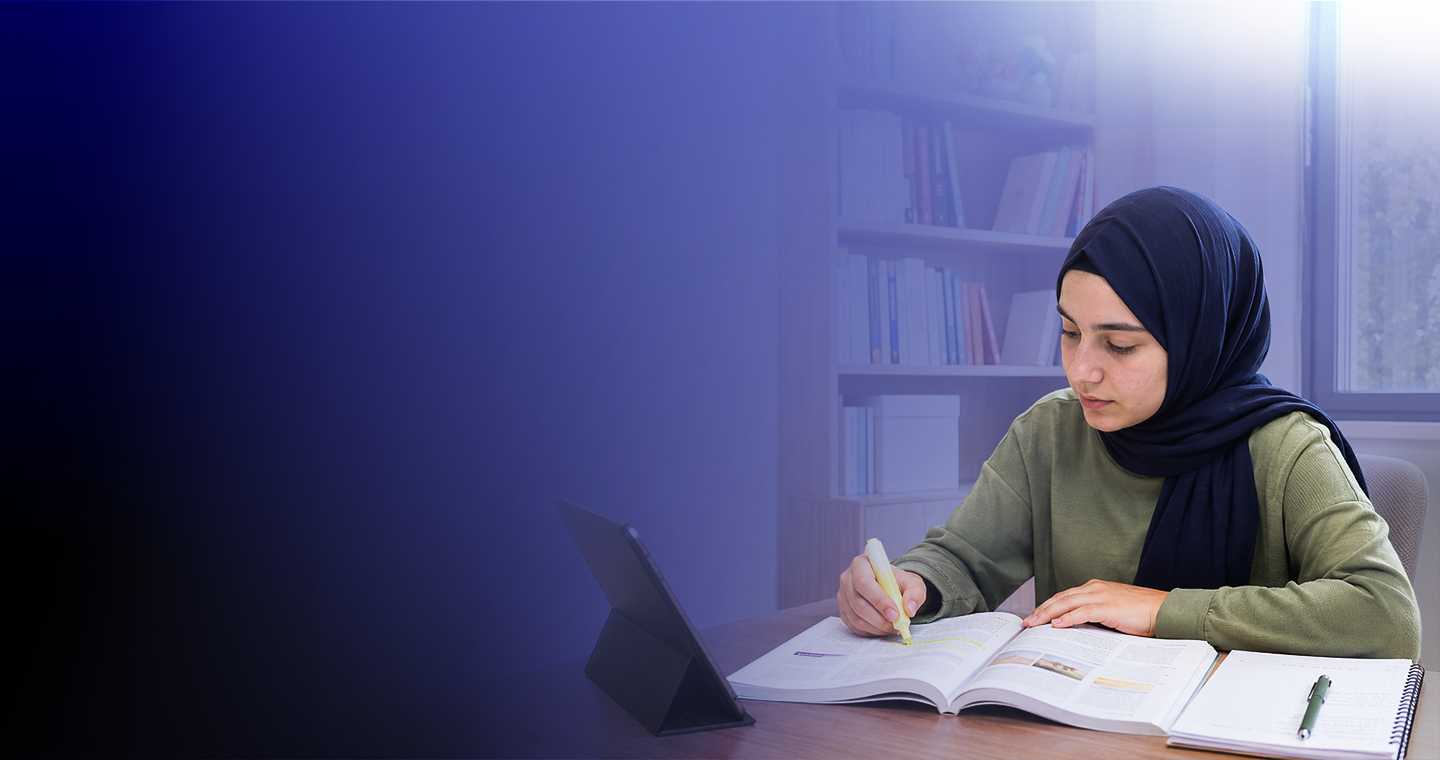
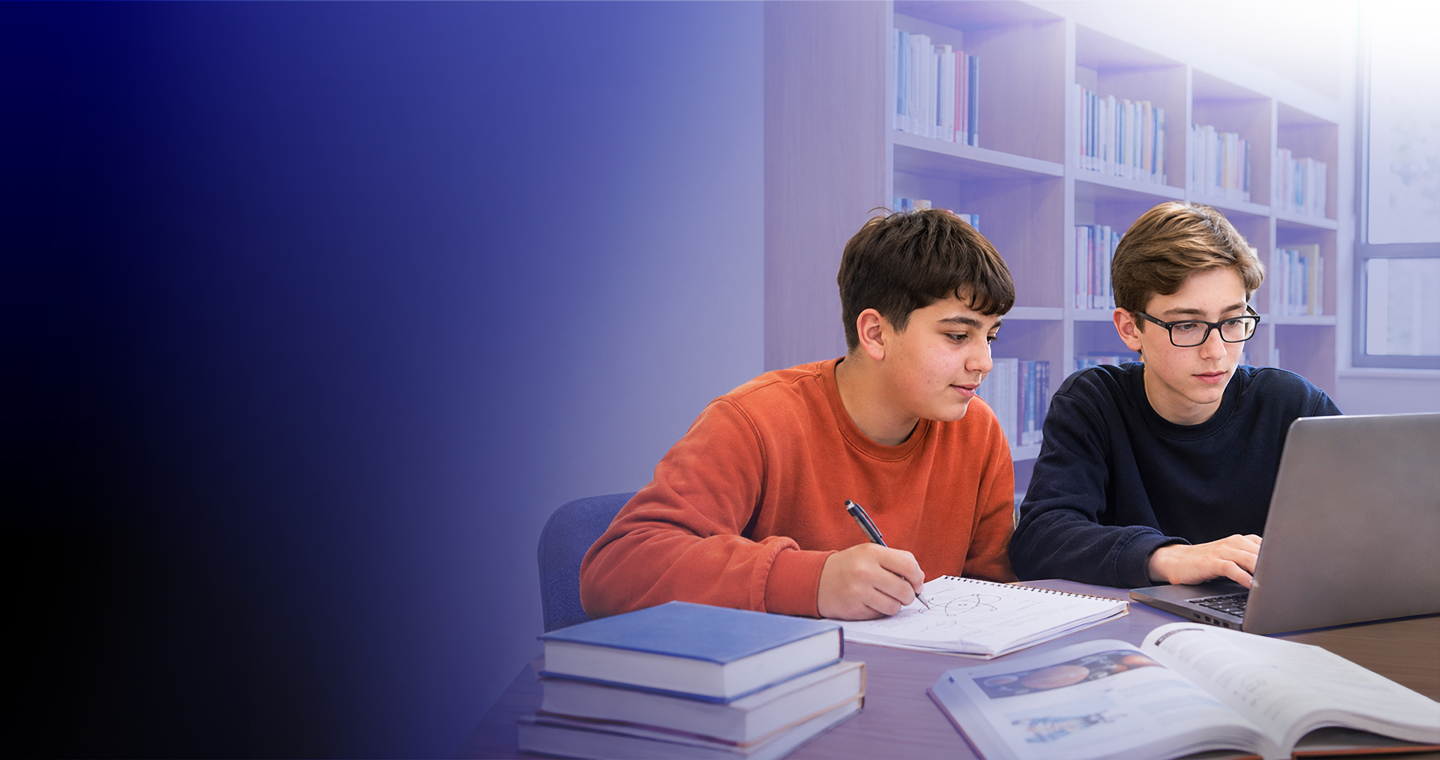
Refine hero slides with paired text and soft zoom transitions

diff --git a/landing-v2/scripts/landing/hero.js b/landing-v2/scripts/landing/hero.js
@@ -10,6 +10,13 @@ onReady(() => {
   const reducedMotion = window.matchMedia('(prefers-reduced-motion: reduce)');
   const sources = picture.querySelectorAll('source');
   const image = picture.querySelector('img');
+  const text = document.querySelector('.hero-text');
+  const textDescriptions = {
+    1: text?.alt || '',
+    2: 'YKS yolculuğunda her adımda yanında. MEBİ, ortaöğretim öğrencilerinin ve mezunlarının YKS’ye hazırlık sürecini ders anlatım videoları, çözümlü sorular ve bireysel çalışma planlarıyla destekleyen, ücretsiz bir bireysel öğrenme platformudur.',
+    3: 'Hayalindeki liseye ilk adım MEBİ ile. MEBİ, ortaokul öğrencilerinin okul derslerini desteklemek ve LGS’ye hazırlık süreçlerine katkı sağlamak amacıyla ders anlatım videoları, çözümlü sorular ve bireysel çalışma planları sunan ücretsiz bir öğrenme platformudur.'
+  };
+  const textPath = index => `landing-v2/images/hero-text-${index}.png`;
   const series = {
     desktop: { base: 'landing-v2/images/hero-final', index: 1, last: 1, urls: new Map([[1, 'landing-v2/images/hero-final-1.png']]), entries: [1] },
     mobile: { base: 'landing-v2/images/hero-section-mobile', index: 1, last: 1, urls: new Map(), entries: [1] }
@@ -17,10 +24,50 @@ onReady(() => {
   let paused = reducedMotion.matches;
   let timer;
   let version = 0;
-  let finishTransition = () => {};
+  let activeTransition;
+  let zoom;
+  let preparing = false;
+  const decoded = new Map();
+  const easeOut = getComputedStyle(picture).getPropertyValue('--ease-out').trim();
+  const holdDuration = 6000;
+  const fadeDuration = 1800;
   const stem = (state, index) => `${state.base}${index === 1 ? '' : `-${index}`}`;
   const path = (state, index) => state.urls.get(index) || `${stem(state, index)}.webp`;
   const current = () => mobile.matches ? series.mobile : series.desktop;
+  const running = () => !paused && !document.hidden;
+  const startZoom = () => {
+    zoom?.cancel();
+    zoom = undefined;
+    if (reducedMotion.matches || !picture.animate || current().entries.length < 2) return;
+    zoom = picture.animate([
+      { transform: 'scale(1)' },
+      { transform: 'scale(1.06)' }
+    ], { duration: holdDuration + fadeDuration, easing: 'linear', fill: 'both' });
+    if (!running()) zoom.pause();
+  };
+  const nextIndex = state => state.entries[(state.entries.indexOf(state.index) + 1) % state.entries.length];
+  const load = url => {
+    if (!decoded.has(url)) {
+      const candidate = new Image();
+      candidate.src = url;
+      decoded.set(url, candidate.decode().then(() => {
+        if (!candidate.naturalWidth) throw new Error('Empty hero image');
+        return candidate;
+      }).catch(error => {
+        decoded.delete(url);
+        throw error;
+      }));
+    }
+    return decoded.get(url);
+  };
+  const prepare = (state, index) => Promise.all([
+    load(path(state, index)),
+    ...(text ? [load(textPath(state === series.mobile ? 1 : index))] : [])
+  ]);
+  const warmNext = () => {
+    const state = current();
+    if (running() && state.entries.length > 1) prepare(state, nextIndex(state)).catch(() => {});
+  };
   const render = () => {
     sources[0].srcset = path(series.mobile, series.mobile.index);
     sources[1].srcset = path(series.desktop, series.desktop.index);
@@ -28,42 +75,72 @@ onReady(() => {
       source.type = source.srcset.endsWith('.png') ? 'image/png' : 'image/webp';
     });
     image.src = path(series.desktop, series.desktop.index);
+    if (text) {
+      const index = mobile.matches ? 1 : series.desktop.index;
+      text.src = textPath(index);
+      text.alt = textDescriptions[index] || textDescriptions[1];
+    }
   };
-  const transition = async (previousUrl, requestVersion) => {
-    finishTransition();
+  const transition = async previousUrl => {
     if (reducedMotion.matches || !picture.animate || !previousUrl) {
       render();
       return;
     }
-    const outgoing = document.createElement('img');
-    outgoing.className = 'hero-outgoing';
-    outgoing.src = previousUrl;
-    outgoing.alt = '';
+    // Keep one complete old frame above the new background while it decodes.
+    const outgoing = document.createElement('div');
+    outgoing.className = 'hero-outgoing-frame';
     outgoing.setAttribute('aria-hidden', 'true');
-    picture.after(outgoing);
-    let animations = [];
-    const cleanup = () => {
-      animations.forEach(animation => animation.cancel());
-      outgoing.remove();
-    };
-    finishTransition = cleanup;
-    render();
-    // Keep the old frame covering the picture until the browser decodes the new one.
-    try { await image.decode(); } catch { /* The candidate was already verified. */ }
-    if (requestVersion !== version) {
-      cleanup();
-      return;
+    const background = image.cloneNode();
+    background.className = 'hero-outgoing';
+    background.src = previousUrl;
+    background.alt = '';
+    const previousScale = new DOMMatrixReadOnly(getComputedStyle(picture).transform).a;
+    background.style.transform = `scale(${previousScale})`;
+    outgoing.append(background);
+    const outgoingText = text?.cloneNode();
+    if (outgoingText) {
+      outgoingText.alt = '';
+      outgoing.append(outgoingText);
+      text.style.opacity = '0';
     }
-    const timing = { duration: 1100, easing: 'ease-in-out', fill: 'both' };
-    animations = [
-      outgoing.animate([
+    picture.after(outgoing);
+    const session = {
+      animations: [],
+      cleanup() {
+        session.animations.forEach(animation => animation.cancel());
+        outgoing.remove();
+        text?.style.removeProperty('opacity');
+        if (activeTransition === session) activeTransition = undefined;
+      }
+    };
+    activeTransition = session;
+    render();
+    try { await Promise.all([image.decode(), text?.decode()]); } catch { /* Preloaded assets remain the fallback. */ }
+    if (activeTransition !== session) return;
+    startZoom();
+    const animate = (element, keyframes, options) => {
+      session.animations.push(element.animate(keyframes, {
+        easing: easeOut, fill: 'both', ...options
+      }));
+    };
+    // Continue the old camera movement through the dissolve; the new one starts gently.
+    animate(background, [
+      { opacity: 1, transform: `scale(${previousScale})` },
+      { opacity: 0, transform: `scale(${previousScale + 0.014})` }
+    ], { duration: fadeDuration, easing: 'linear' });
+    if (text) {
+      animate(outgoingText, [
         { opacity: 1 },
         { opacity: 0 }
-      ], timing)
-    ];
-    await Promise.all(animations.map(animation => animation.finished.catch(() => {})));
-    cleanup();
-    if (finishTransition === cleanup) finishTransition = () => {};
+      ], { duration: 240 });
+      animate(text, [
+        { opacity: 0, transform: 'translateY(8px)', filter: 'blur(3px)' },
+        { opacity: 1, transform: 'translateY(0)', filter: 'blur(0)' }
+      ], { duration: 700, delay: 320 });
+    }
+    if (!running()) session.animations.forEach(animation => animation.pause());
+    await Promise.all(session.animations.map(animation => animation.finished.catch(() => {})));
+    if (activeTransition === session) session.cleanup();
   };
   const label = () => {
     playback.innerHTML = paused
@@ -73,54 +150,61 @@ onReady(() => {
   };
   const schedule = () => {
     clearTimeout(timer);
-    if (!paused && !document.hidden) timer = setTimeout(advance, 6000);
+    if (running() && !activeTransition && !preparing && current().entries.length > 1) {
+      warmNext();
+      timer = setTimeout(advance, holdDuration);
+    }
   };
   const advance = async () => {
+    if (!running() || preparing || activeTransition) return;
     const state = current();
     const requestVersion = version;
-    const position = state.entries.indexOf(state.index);
-    const next = state.entries[(position + 1) % state.entries.length];
-    if (next === state.index) { schedule(); return; }
-    const candidate = new Image();
-    candidate.src = path(state, next);
+    const next = nextIndex(state);
+    if (next === state.index) return;
+    preparing = true;
     try {
-      await candidate.decode();
-      if (!candidate.naturalWidth) throw new Error('Empty image');
-    } catch {
-      // A removed or damaged catalog entry must not replace the visible image.
+      await prepare(state, next);
+      if (requestVersion !== version || !running()) return;
+      const previousUrl = image.currentSrc || image.src;
+      state.index = next;
+      await transition(previousUrl);
+    } catch { /* Retain the current pair if either asset fails to load. */ }
+    finally {
+      preparing = false;
       schedule();
-      return;
     }
-    if (requestVersion !== version) return;
-    const previousIndex = state.index;
-    const previousUrl = image.currentSrc || image.src;
-    state.index = next;
-    if (state.index !== previousIndex) await transition(previousUrl, requestVersion);
-    if (requestVersion !== version) return;
-    playback.hidden = state.last < 2 && !reducedMotion.matches;
+  };
+  const syncPlayback = () => {
+    clearTimeout(timer);
+    if (zoom && zoom.playState !== 'finished') {
+      if (running()) zoom.play();
+      else zoom.pause();
+    }
+    activeTransition?.animations.forEach(animation => {
+      if (running()) animation.play();
+      else animation.pause();
+    });
+    label();
     schedule();
   };
   playback.addEventListener('click', () => {
     paused = !paused;
-    version += 1;
-    finishTransition();
-    label();
-    schedule();
+    syncPlayback();
   });
   const restart = () => {
     version += 1;
-    finishTransition();
-    playback.hidden = current().last < 2 && !reducedMotion.matches;
-    schedule();
+    activeTransition?.cleanup();
+    render();
+    startZoom();
+    playback.hidden = current().entries.length < 2 && !reducedMotion.matches;
+    syncPlayback();
   };
   mobile.addEventListener('change', restart);
-  document.addEventListener('visibilitychange', restart);
+  document.addEventListener('visibilitychange', syncPlayback);
   reducedMotion.addEventListener('change', () => {
     paused = reducedMotion.matches;
-    label();
     restart();
   });
-  // Reduced-motion visitors can explicitly opt in without automatic rotation.
   if (reducedMotion.matches) playback.hidden = false;
   const refreshCatalog = async () => {
     try {
@@ -145,14 +229,23 @@ onReady(() => {
           }
         }
         if (!urls.size) continue;
+        if (!urls.has(state.index)) {
+          // Retain the visible pair until the next validated transition.
+          urls.set(state.index, path(state, state.index));
+        }
         state.urls = urls;
         state.entries = [...urls.keys()].sort((a, b) => a - b);
         state.last = state.entries.length;
       }
-      playback.hidden = current().last < 2 && !reducedMotion.matches;
+      playback.hidden = current().entries.length < 2 && !reducedMotion.matches;
+      warmNext();
     } catch { /* The original cover stays usable if the catalog is unavailable. */ }
   };
   label();
-  refreshCatalog().then(render).finally(schedule);
+  refreshCatalog().then(async () => {
+    render();
+    try { await image.decode(); } catch { /* Keep the original cover available. */ }
+    startZoom();
+  }).finally(schedule);
   setInterval(refreshCatalog, 60000);
 });

diff --git a/index.html b/index.html
@@ -17,7 +17,7 @@
   <link rel="stylesheet" href="landing-v2/styles/shared/footer.css">
   <link rel="stylesheet" href="landing-v2/styles/shared/login-modal.css">
   <link rel="stylesheet" href="landing-v2/styles/shared/scroll-to-top.css">
-  <link rel="stylesheet" href="landing-v2/styles/landing/hero.css?v=20261111-icon-only-v8">
+  <link rel="stylesheet" href="landing-v2/styles/landing/hero.css?v=20261111-soft-zoom-v13">
   <link rel="stylesheet" href="landing-v2/styles/landing/presence-counter.css?v=20261023-presence-v34">
   <link rel="stylesheet" href="landing-v2/styles/landing/about.css?v=20261024-no-card-hover">
   <link rel="stylesheet" href="landing-v2/styles/landing/resources.css">
@@ -32,7 +32,7 @@
   <link rel="stylesheet" href="landing-v2/styles/landing/contact.css">
   <link rel="stylesheet" href="landing-v2/styles/landing/discover-modal.css">
   <link rel="icon" type="image/x-icon" href="landing-v2/images/favicon.ico">
-  <script src="landing-v2/global.js?v=20261111-numbered-v7" defer></script>
+  <script src="landing-v2/global.js?v=20261111-soft-zoom-v13" defer></script>
 </head>
 
 <body oncontextmenu="return false;">
@@ -82,7 +82,7 @@
       <img src="landing-v2/images/hero-final-1.png" alt="" class="hero-bg" width="2880" height="1520"
         fetchpriority="high" decoding="async">
     </picture>
-    <img src="landing-v2/images/hero-text.png" class="hero-text" width="2880" height="1520"
+    <img src="landing-v2/images/hero-text-1.png" class="hero-text" width="2880" height="1520"
       alt="Planla, çalış, başar. Okul dersleri, YKS ve LGS için ücretsiz bireysel öğrenme platformu."
       decoding="async" fetchpriority="high" draggable="false">
     <button class="hero-playback" type="button" hidden aria-label="Kapak görsellerini duraklat"></button>

diff --git a/landing-v2/styles/landing/hero.css b/landing-v2/styles/landing/hero.css
@@ -20,6 +20,13 @@
   transform: none;
 }
 
+.hero-outgoing-frame {
+  position: absolute;
+  inset: 0;
+  z-index: 2;
+  pointer-events: none;
+}
+
 .hero-outgoing {
   position: absolute;
   inset: 0;
@@ -30,7 +37,7 @@
   z-index: 1;
 }
 
-/* Independent of the rotating picture and its outgoing fade layer. */
+/* Each text layer rotates with its matching background. */
 .hero-text {
   position: absolute;
   inset: 0;

diff --git a/landing-v2/global.js b/landing-v2/global.js
@@ -25,7 +25,7 @@ const sharedModules = [
 ];
 
 const landingModules = [
-  './scripts/landing/hero.js?v=20261111-numbered-v7',
+  './scripts/landing/hero.js?v=20261111-soft-zoom-v13',
   './scripts/landing/animations.js',
   './scripts/landing/modules-motion.js?v=20261025-module-scroll-stable-v4',
   './scripts/landing/presence-counter.js?v=20261023-presence-v34',
